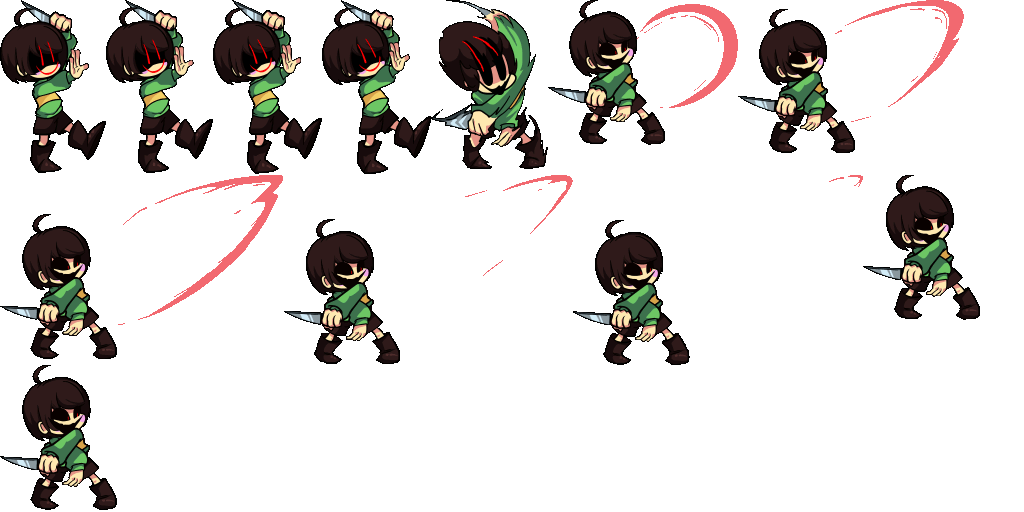
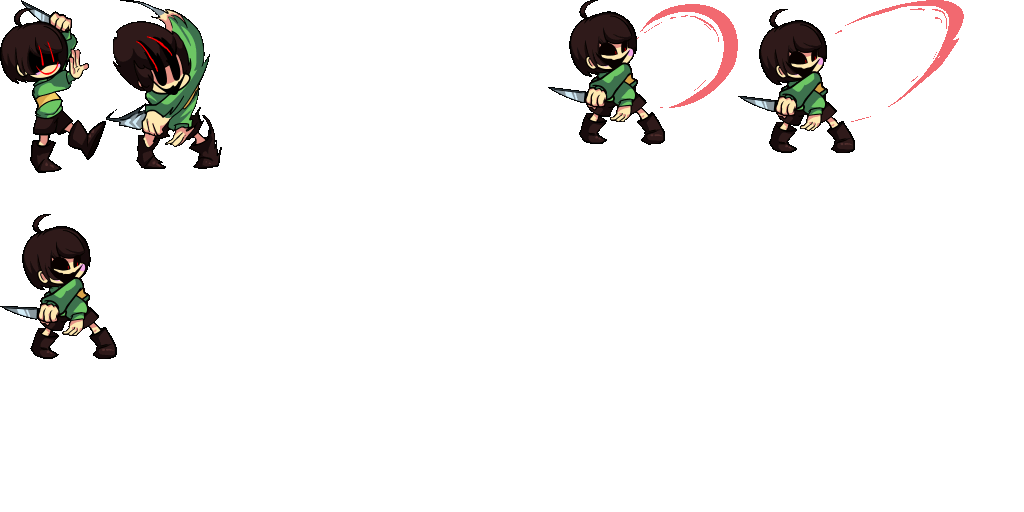
slashy

diff --git a/src/character/chara.c b/src/character/chara.c
@@ -49,6 +49,11 @@ enum
 	Chara_ArcMain_Spec2,
 	Chara_ArcMain_Spec3,
 
+	Chara_ArcMain_Knife0,
+	Chara_ArcMain_Knife1,
+	Chara_ArcMain_Knife2,
+	Chara_ArcMain_Knife3,
+
 	Chara_Arc_Max,
 };
 
@@ -136,13 +141,17 @@ static const CharFrame char_chara_frame[] = {
 	{Chara_ArcMain_Spec3, {  0,   0, 123, 157}, { 55, 155}}, //23 right 2
 	{Chara_ArcMain_Spec3, {123,   0, 121, 157}, { 54, 155}}, //23 right 2
 
-
+	{Chara_ArcMain_Knife0, {  0,   0, 106, 173}, { 61, 172}}, //23 right 2
+	{Chara_ArcMain_Knife0, {106,   0, 116, 169}, { 59, 169}}, //23 right 2
+	{Chara_ArcMain_Knife1, {  0,   0, 190, 145}, { 58, 143}}, //23 right 2
+	{Chara_ArcMain_Knife2, {  0,   0, 226, 153}, { 58, 152}}, //23 right 2
+	{Chara_ArcMain_Knife3, {  0,   0, 117, 145}, { 58, 144}}, //23 right 2
 
 };
 
 static const Animation char_chara_anim[CharAnim_Max] = {
 	{2, (const u8[]){ 0, 1, 2, 3, 4, 5, 6, 7, ASCR_BACK, 1}}, //CharAnim_Idle
-	{0, (const u8[]){ASCR_CHGANI, CharAnim_Idle}}, //CharAnim_Special
+	{2, (const u8[]){ 32+24, 32+24, 32+24, 32+24, 33+24, 34+24, 35+24, 36+24, 36+24, 36+24, 36+24, ASCR_BACK, 1}}, //CharAnim_Special
 	{2, (const u8[]){ 8, 9, 10, 11, ASCR_BACK, 1}},         //CharAnim_Left
 	{0, (const u8[]){ASCR_CHGANI, CharAnim_Idle}},   //CharAnim_LeftAlt
 	{2, (const u8[]){ 12, 13, 14, 15, ASCR_BACK, 1}},         //CharAnim_Down
@@ -185,6 +194,12 @@ void Char_Chara_Tick(Character *character)
 {
 	Char_Chara *this = (Char_Chara*)character;
 	
+	if (stage.song_step == 275)
+		character->set_anim(character, CharAnim_Special);
+
+
+
+
 	if (stage.song_step >= 208 && stage.song_step <= 209 && stage.stage_id == StageId_1_4)
 		this->character.focus_zoom = FIXED_DEC(15,10);
 	else 
@@ -199,13 +214,10 @@ void Char_Chara_Tick(Character *character)
     
 	if (stage.song_step >= 528 && stage.song_step <= 720 && stage.stage_id == StageId_1_4)
 		Animatable_Animate(&character->animatableb, (void*)this, Char_Chara_SetFrame);
-
 	else if (stage.song_step >= 197 && stage.song_step <= 207 && stage.stage_id == StageId_1_4)
 		Animatable_Animate(&character->animatableb, (void*)this, Char_Chara_SetFrame);
-
 	else if (stage.song_step >= 1080 && stage.song_step <= 1088 && stage.stage_id == StageId_1_4)
 		Animatable_Animate(&character->animatableb, (void*)this, Char_Chara_SetFrame);
-
 	else
 		Animatable_Animate(&character->animatable, (void*)this, Char_Chara_SetFrame);
 	
@@ -298,8 +310,10 @@ Character *Char_Chara_New(fixed_t x, fixed_t y)
 		"spec2.tim", 
 		"spec3.tim", 
 
-		
-		
+		"knife0.tim", //Chara_ArcMain_Right
+		"knife1.tim", 
+		"knife2.tim", 
+		"knife3.tim", 
 		
 		NULL
 	};
